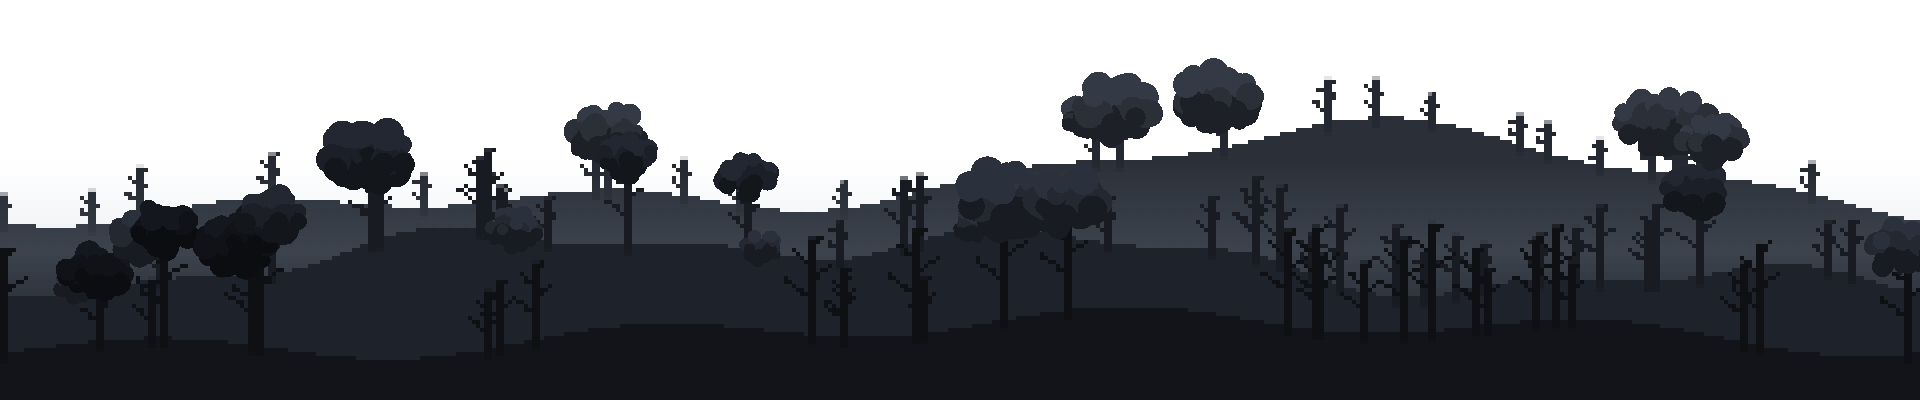
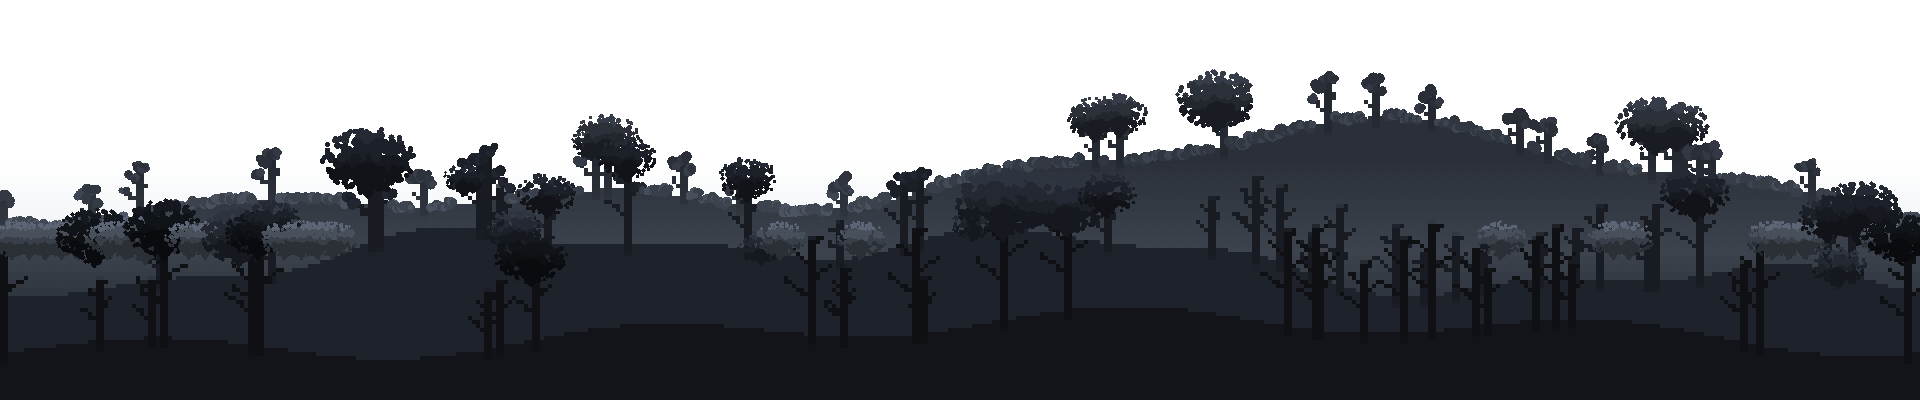
원경 잎을 훨씬 풍성하게 — 능선까지 잎으로 덮는다
앞 판은 나무마다 갓을 하나씩 얹은 것뿐이라 막대에 사탕을 꽂아 둔 것처럼
낱낱이 떨어져 보였다. 진짜 원경 숲은 **능선 자체가 잎으로 덮여** 윤곽이
뭉개져 있고, 그 위로 큰 나무 몇 그루가 삐죽 솟는다.

  ─ 능선 띠(ridge)를 새로 깐다. 열마다 맨 위 불투명 픽셀을 찾아 그 언덕
    자기 색으로 잎덩이를 흩뿌린다. 언덕이 여럿이면 각자 제 색으로 덮이므로
    앞뒤 깊이가 그대로 유지된다.
  ─ 나무를 25그루 → 53그루로 (줄기 판정 길이 15px → 10px)
  ─ 갓을 키우고, 작은 덩이를 훨씬 많이 쓴다. 큰 덩이 몇 개로 채우면
    가장자리가 매끈해져 나무가 아니라 먹구름이 된다
  ─ 명암을 두 단계에서 네 단계로. 두 단계로는 통짜 덩어리가 됐다

  섞은 판의 잎 픽셀: 1장 34,436 → 3장 16,967 → 5장 12,641 → 8장 475 →
  9장 34,436 으로 복귀.

■ 굽다가 잡은 것 둘

  ─ `not rng.random() < dens` 는 `(not rng.random()) < dens` 로 묶여 늘 참이다.
    그래서 능선 띠가 한 점도 안 그려지고 있었다.
  ─ 능선을 ridge() 안에서 그때그때 재면 **같은 버퍼를 읽으며 쓴다.** 한 열에
    잎을 얹으면 다음 열이 그 잎을 능선으로 읽고 또 그 위에 얹고, 색까지 매번
    밝게(×1.42) 떠서 밝기가 겹겹이 곱해진다 — 캔버스 위로 기어오르는 새하얀
    계단이 여러 줄 생겼다. 이제 원본에서 한 번만 재어 넘긴다(skyline).

Claude-Session: https://claude.ai/code/session_015bTXkb4q3SzK7wZ8JdbtYP

diff --git a/game/index.html b/game/index.html
@@ -4,7 +4,7 @@
 <meta charset="utf-8">
 <meta name="viewport" content="width=device-width,initial-scale=1">
 <title>Ashfall Chronicles — 별이 잠든 땅</title>
-<link rel="stylesheet" href="css/style.css?v=191">
+<link rel="stylesheet" href="css/style.css?v=192">
 </head>
 <body>
 
@@ -448,19 +448,19 @@
   </div>
 </div>
 
-<script src="js/util.js?v=191"></script>
-<script src="js/data.js?v=191"></script>
-<script src="js/world.js?v=191"></script>
-<script src="js/tileart.js?v=191"></script>
-<script src="js/itemart.js?v=191"></script>
-<script src="js/titlebg.js?v=191"></script>
+<script src="js/util.js?v=192"></script>
+<script src="js/data.js?v=192"></script>
+<script src="js/world.js?v=192"></script>
+<script src="js/tileart.js?v=192"></script>
+<script src="js/itemart.js?v=192"></script>
+<script src="js/titlebg.js?v=192"></script>
 <!-- 매니페스트는 sprites.js 보다 먼저. file:// 에서 fetch 가 막히므로 <script> 로 넣는다 -->
-<script src="assets/sprites-manifest.js?v=191"></script>
-<script src="assets/sprites.js?v=191"></script>
-<script src="js/entity.js?v=191"></script>
-<script src="js/factory.js?v=191"></script>
-<script src="js/ui.js?v=191"></script>
-<script src="js/music.js?v=191"></script>
-<script src="js/game.js?v=191"></script>
+<script src="assets/sprites-manifest.js?v=192"></script>
+<script src="assets/sprites.js?v=192"></script>
+<script src="js/entity.js?v=192"></script>
+<script src="js/factory.js?v=192"></script>
+<script src="js/ui.js?v=192"></script>
+<script src="js/music.js?v=192"></script>
+<script src="js/game.js?v=192"></script>
 </body>
 </html>

diff --git a/tools/mkforestbg.py b/tools/mkforestbg.py
@@ -63,7 +63,7 @@ def find_trees(px, W, H):
         p = px[x, y]
         return p[:3] if p[3] == 255 else None
 
-    GAP, LONG = 11, 15
+    GAP, LONG = 11, 10
     tops = {}
     for x in range(GAP, W - GAP):
         for y in range(0, H - LONG):
@@ -104,13 +104,16 @@ def canopy(im, px, cx, ty, wide, col, rng, scale, clumps, ragged):
     """나무 하나의 갓. 매끈한 타원 하나가 아니라 **작은 덩이 여럿**을 겹쳐
        가장자리를 헤지게 만든다 — 매끈하면 나무가 아니라 구름으로 보인다."""
     W, H = im.size
-    rx = (17 + wide * 1.05) * scale
-    ry = rx * 0.72
-    cy = ty - ry * 0.35            # 갓의 가운데는 꼭대기보다 조금 위
+    rx = (20 + wide * 1.15) * scale
+    ry = rx * 0.70
+    cy = ty - ry * 0.30            # 갓의 가운데는 꼭대기보다 조금 위
 
-    leaf = shade(col, 1.18)        # 빛 받는 잎
-    dark = shade(col, 0.82)        # 그늘진 안쪽
-    lite = shade(col, 1.45)        # 위쪽 한 겹
+    # 값 네 단계. 두 단계로만 그렸더니 통짜 덩어리가 되어 나무가 아니라
+    # 먹구름으로 보였다 — 잎은 안이 비어 보일 만큼 명암이 갈려야 한다.
+    dark = shade(col, 0.72)        # 갓 안쪽 그늘
+    mid = shade(col, 0.95)
+    leaf = shade(col, 1.20)        # 빛 받는 면
+    lite = shade(col, 1.52)        # 꼭대기 한 겹
 
     def blob(bx, by, r, c):
         rr = int(r) + 1
@@ -122,16 +125,20 @@ def canopy(im, px, cx, ty, wide, col, rng, scale, clumps, ragged):
                 if 0 <= x < W and 0 <= y < H:
                     px[x, y] = (c[0], c[1], c[2], 255)
 
-    n = max(3, int(clumps * (0.6 + rx / 26)))
+    # 작은 덩이를 아주 많이. 큰 덩이 몇 개로 채우면 가장자리가 매끈해져
+    # 구름이 된다 — 잎은 낱개가 보여야 한다.
+    n = max(8, int(clumps * (1.4 + rx / 9)))
     for i in range(n):
         a = rng.uniform(0, math.tau)
-        d = rng.uniform(0, 1) ** 0.55        # 가운데가 빽빽하고 밖이 성글다
+        d = rng.uniform(0, 1) ** 0.45        # 가운데가 빽빽하고 밖이 성글다
         bx = cx + math.cos(a) * d * rx
         by = cy + math.sin(a) * d * ry
-        r = rng.uniform(0.22, 0.42) * rx * (1 - ragged * rng.uniform(0, 0.5))
-        # 아래쪽 덩이는 그늘, 위쪽은 빛
-        c = dark if by > cy + ry * 0.15 else (lite if by < cy - ry * 0.35 else leaf)
-        blob(bx, by, r, c)
+        # 바깥으로 갈수록 잘게 — 가장자리가 헤진다
+        r = (0.055 + 0.11 * (1 - d)) * rx * (1 - ragged * rng.uniform(0, 0.6))
+        rel = (by - cy) / max(ry, 1)
+        c = (dark if rel > 0.25 else mid if rel > -0.05
+             else lite if rel < -0.55 else leaf)
+        blob(bx, by, max(1.2, r), c)
 
     # 갓이 줄기 위쪽을 덮는다 — 살아 있는 나무는 윗동이 안 보인다
     if scale > 0.7:
@@ -140,11 +147,64 @@ def canopy(im, px, cx, ty, wide, col, rng, scale, clumps, ragged):
             blob(cx + rng.uniform(-1.5, 1.5), cy + ry * 0.5 + k, max(1.5, r), dark)
 
 
+def skyline(px, W, H):
+    """열마다 (맨 위 불투명 픽셀 y, 그 아래 3px 의 색). **원본에서 한 번만** 잰다.
+
+    ridge() 안에서 그때그때 재면 안 된다 — 같은 버퍼를 읽으면서 쓰기 때문에,
+    한 열에 잎을 얹으면 다음 열이 그 잎을 능선으로 읽고 또 그 위에 얹는다.
+    색까지 매번 밝게(×1.42) 뜨므로 밝기가 겹겹이 곱해져, 캔버스 위로 기어오르는
+    **새하얀 계단**이 여러 줄 생겼다. 처음 구웠을 때 실제로 그랬다."""
+    out = []
+    for x in range(W):
+        ty, col = None, None
+        for y in range(H):
+            if px[x, y][3] == 255:
+                ty = y
+                c = px[x, min(H - 1, y + 3)]
+                col = c[:3] if c[3] == 255 else px[x, y][:3]
+                break
+        out.append((ty, col))
+    return out
+
+
+def ridge(im, px, sky, rng, dens, size):
+    """능선을 따라 깔리는 잎 띠.
+
+    나무마다 갓을 하나씩 얹는 것만으로는 숲이 안 된다 — 막대에 사탕을 꽂아 둔
+    것처럼 낱낱이 떨어져 보인다. 진짜 원경 숲은 **능선 자체가 잎으로 덮여**
+    윤곽이 뭉개져 있고, 그 위로 큰 나무 몇 그루만 삐죽 솟는다.
+
+    그래서 열마다 맨 위 불투명 픽셀을 찾아 그 자리에 그 언덕 **자기 색**으로
+    잎덩이를 흩뿌린다. 언덕이 여럿이면 각자 제 색으로 덮이므로 앞뒤 깊이가
+    그대로 유지된다."""
+    W, H = im.size
+    for x in range(0, W, 2):
+        ty, col = sky[x]
+        # 괄호가 필요하다. not rng.random() < dens 는 (not rng.random()) < dens 로
+        # 묶여 늘 참이 되고, 그러면 이 띠가 한 점도 안 그려진다
+        if ty is None or ty < 2 or rng.random() >= dens:
+            continue
+        leaf, lite = shade(col, 1.16), shade(col, 1.42)
+        for _ in range(2):
+            r = rng.uniform(2.5, 5.5) * size
+            bx = x + rng.uniform(-3, 3)
+            by = ty - rng.uniform(-1, 4) * size
+            c = lite if rng.random() < 0.3 else leaf
+            rr = int(r) + 1
+            for dy in range(-rr, rr + 1):
+                for dx in range(-rr, rr + 1):
+                    if dx * dx + dy * dy > r * r:
+                        continue
+                    ix, iy = int(bx + dx), int(by + dy)
+                    if 0 <= ix < W and 0 <= iy < H:
+                        px[ix, iy] = (c[0], c[1], c[2], 255)
+
+
 STAGES = [
-    # 이름,        갓 크기, 덩이 수, 헤짐, 잎이 남은 나무 비율
-    ('lush', 1.00, 26, 0.15, 1.00),
-    ('mid', 0.74, 15, 0.40, 0.92),
-    ('thin', 0.46, 8, 0.65, 0.62),
+    # 이름,        갓 크기, 덩이 수, 헤짐, 남은 나무, 능선 띠 밀도, 띠 크기
+    ('lush', 1.00, 34, 0.15, 1.00, 0.92, 1.00),
+    ('mid', 0.72, 18, 0.40, 0.88, 0.48, 0.72),
+    ('thin', 0.44, 9, 0.65, 0.55, 0.14, 0.50),
 ]
 
 
@@ -152,11 +212,14 @@ def main():
     src = Image.open(SRC).convert('RGBA')
     W, H = src.size
     trees = find_trees(src.load(), W, H)
+    sky = skyline(src.load(), W, H)          # 원본에서 한 번만 — ridge() 설명 참고
     print('원본에서 찾은 나무 %d그루' % len(trees))
-    for name, scale, clumps, ragged, keep in STAGES:
+    for name, scale, clumps, ragged, keep, rdens, rsize in STAGES:
         im = src.copy()
         px = im.load()
-        rng = random.Random(20260910)      # 세 장의 잎이 같은 자리에서 빠지도록 고정
+        # 능선 띠를 먼저 깔고 그 위에 갓을 얹는다 — 큰 나무가 띠 위로 솟아야 한다.
+        # 씨앗을 고정해 세 장의 잎이 같은 자리에서 빠지게 한다(옮겨 다니면 안 된다)
+        ridge(im, px, sky, random.Random(20260910), rdens, rsize)
         for i, (cx, ty, wide, col) in enumerate(trees):
             # 어느 나무가 먼저 잎을 잃는지는 나무마다 정해져 있다 —
             # 단계마다 다른 나무가 벗겨지면 잎이 옮겨 다니는 것처럼 보인다
